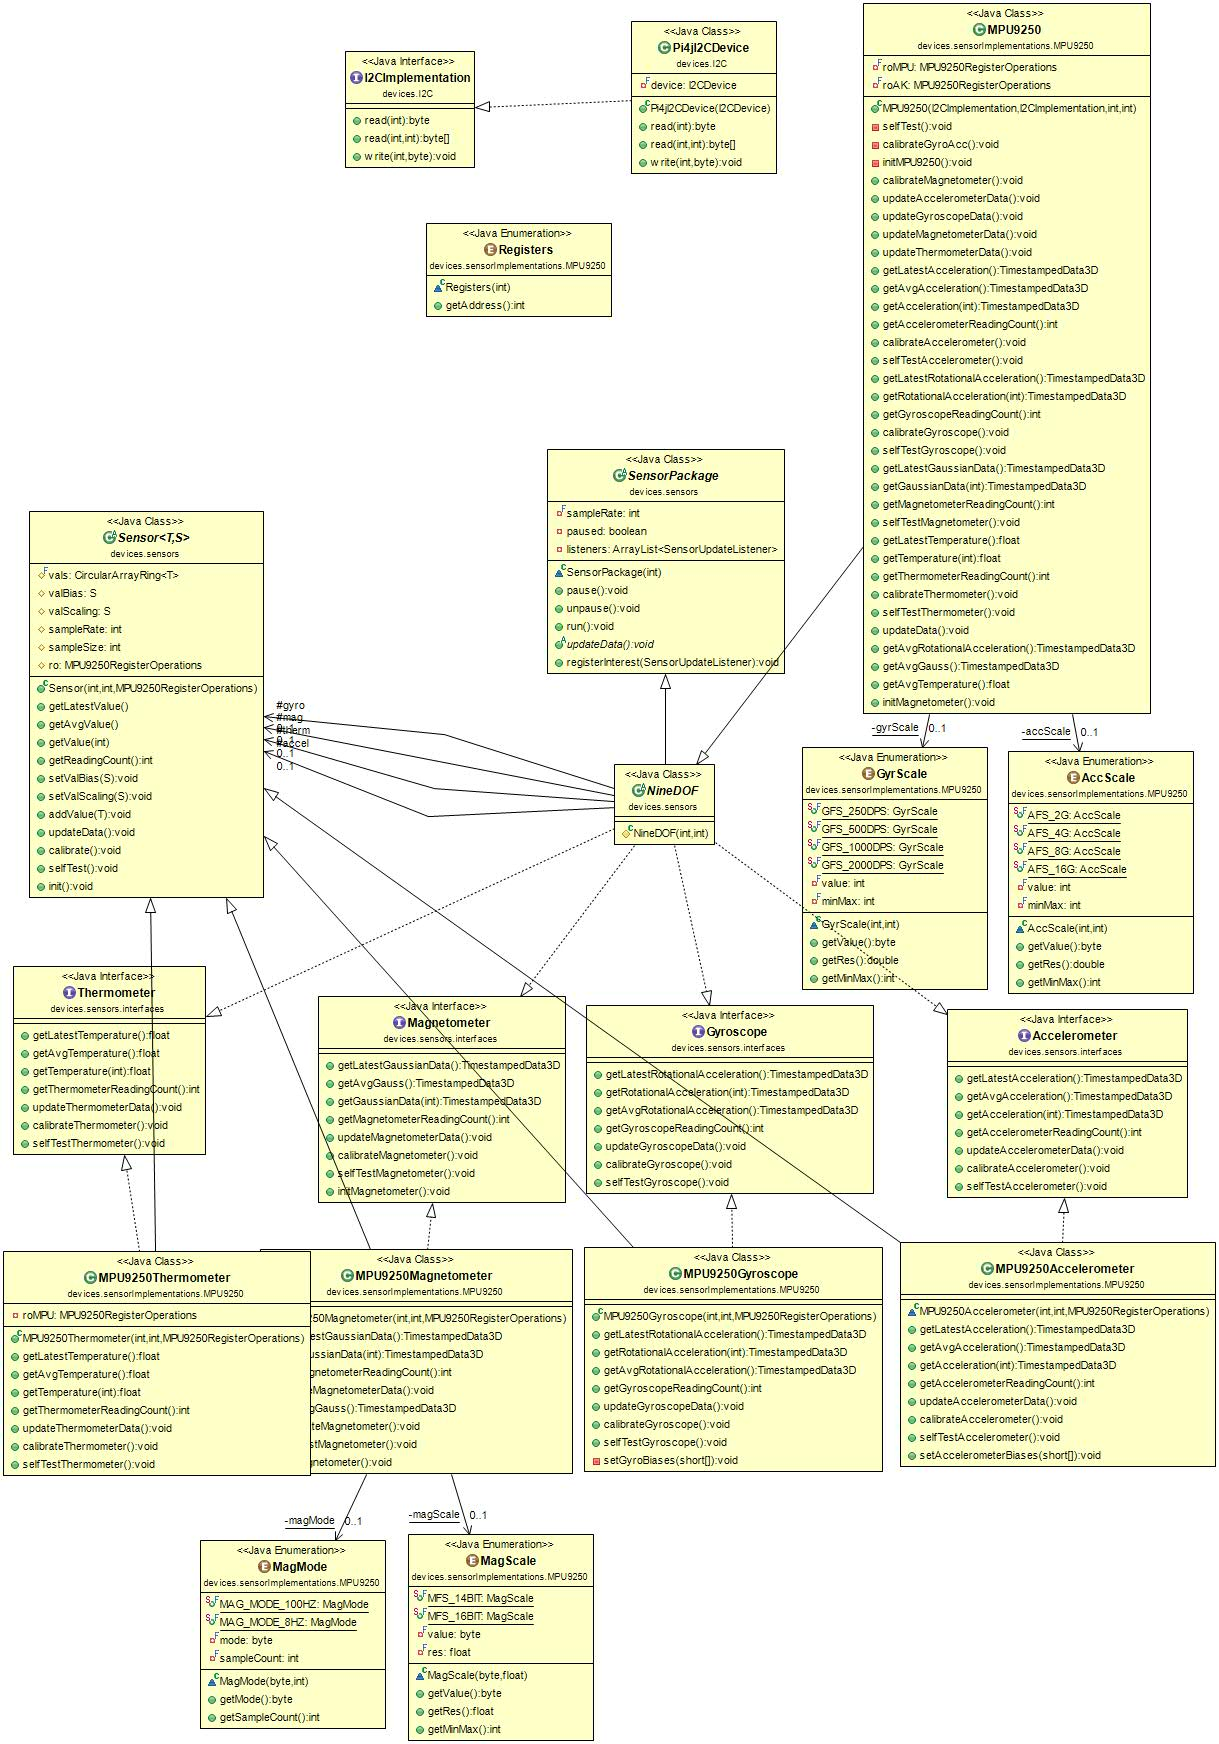
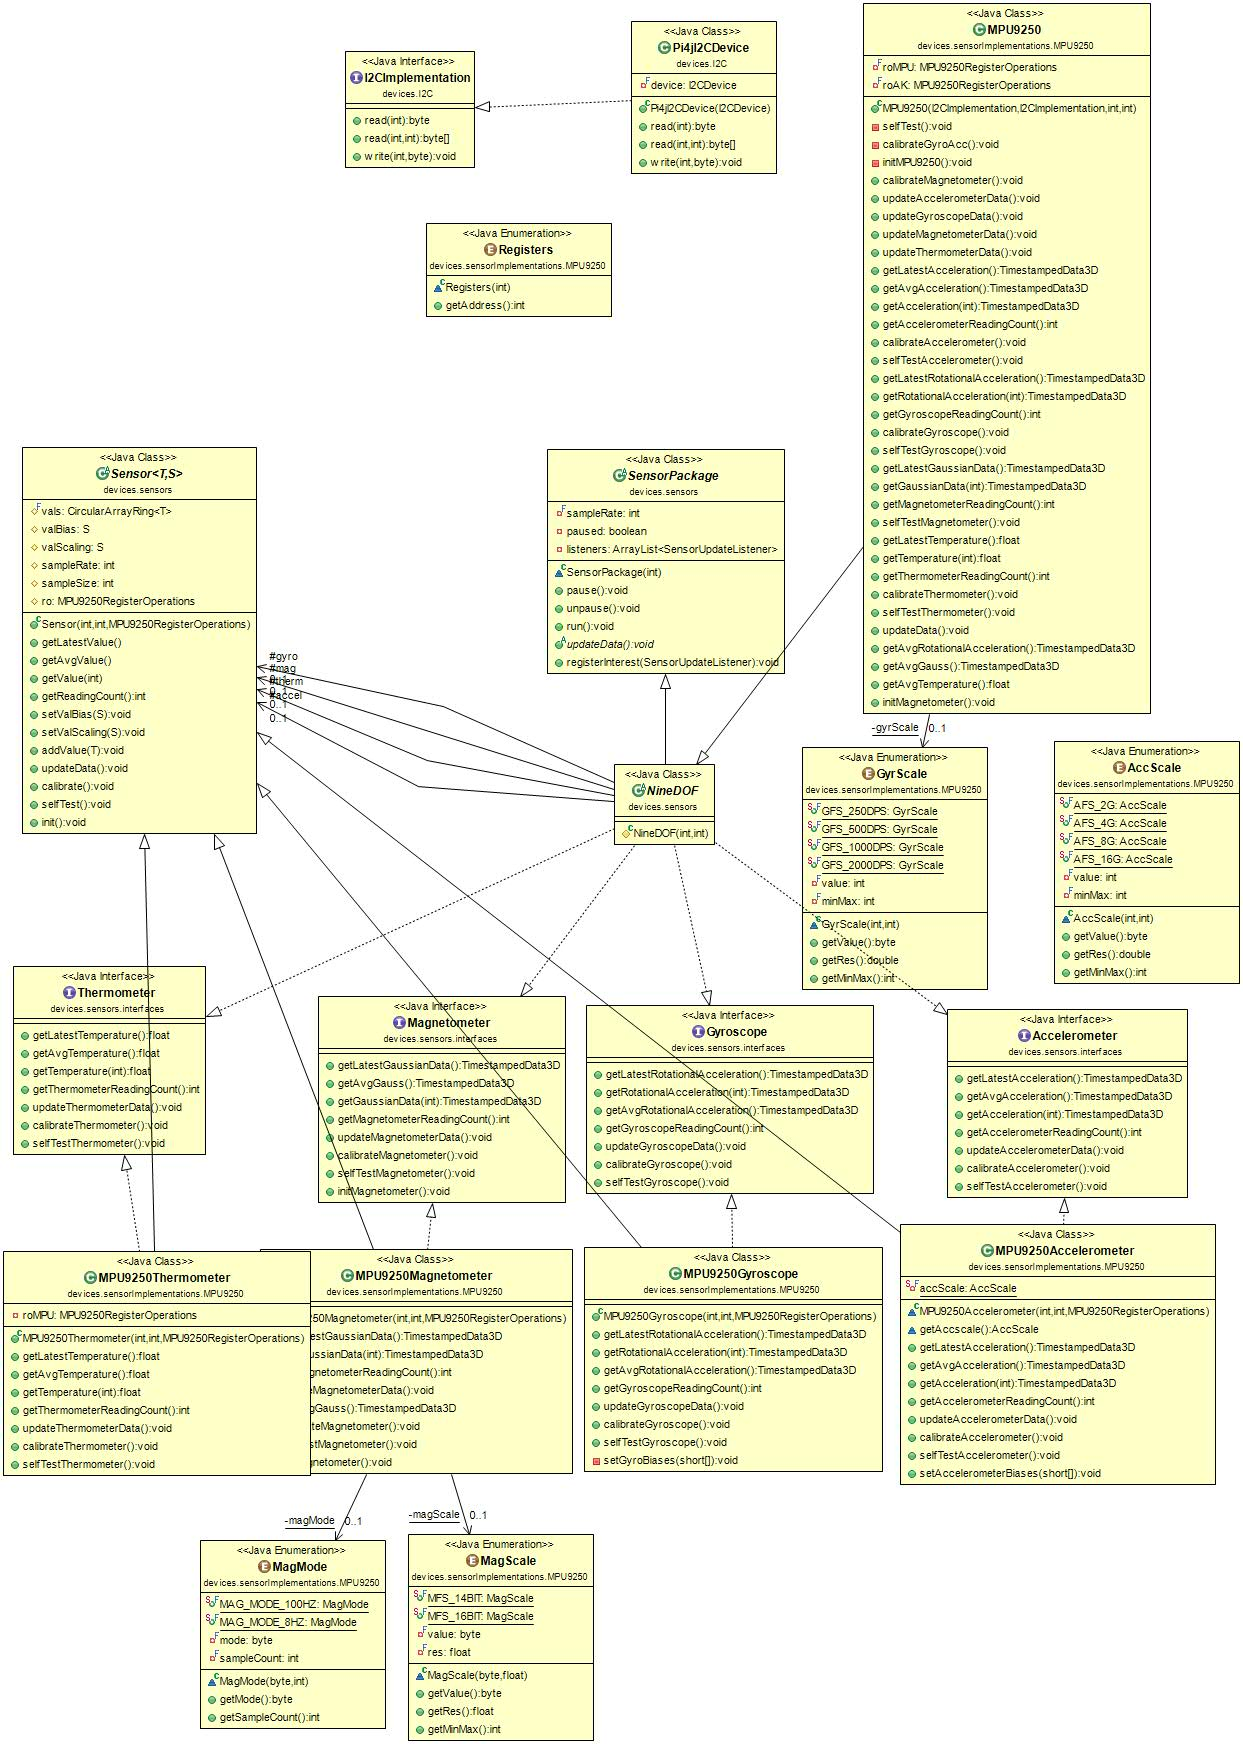
Sensor remodelled slightly to unbundle scaling and offset

diff --git a/RPISensors/src/main/java/devices/sensors/Sensor.java b/RPISensors/src/main/java/devices/sensors/Sensor.java
@@ -1,8 +1,6 @@
 package devices.sensors;
 
 import java.io.IOException;
-import java.util.Set;
-
 import devices.dataTypes.CircularArrayRing;
 import devices.sensorImplementations.MPU9250.MPU9250RegisterOperations;
 
@@ -34,7 +32,8 @@ public abstract class Sensor <T,S>
         return vals.get(0);
     }
     public T getAvgValue()
-    {	//TODO
+    {	
+    	//implement and override in subclass
         return vals.get(0);
     }
 
@@ -60,25 +59,34 @@ public abstract class Sensor <T,S>
 
     public void addValue(T value)
     {
-    	//TODO fix scaling etc
-        //value.scale(valScaling);
-        //value.offset(valBias);
         vals.add(value);
     }
+ 
+    public T OffsetAndScale(T value)
+    {
+    	T oSVal = null;
+    	//implement and override in subclass
+        //value.offset(valBias);
+        //value.scale(valScaling);
+    	System.out.println("ERROR: OffsetAndScale not overridden");
+        return oSVal;
+    }
+
     public void updateData() throws IOException
     {
-    	
-    }
+    	//implement and override in subclass
+    	System.out.println("ERROR: updateData not overridden");
+   }
     public void calibrate()
     {
-    	
+    	//if required implement and override in subclass
     }
     public void selfTest()
     {
-    	
+    	//if required implement and override in subclass
     }
     public void init()
     {
-    	
+    	//if required implement and override in subclass
     }
 }

diff --git a/RPISensors/src/main/java/devices/sensorImplementations/MPU9250/MPU9250.java b/RPISensors/src/main/java/devices/sensorImplementations/MPU9250/MPU9250.java
@@ -19,7 +19,6 @@ import java.util.Arrays;
  */
 public class MPU9250 extends NineDOF
 {
-    private static final AccScale accScale = AccScale.AFS_4G;
     private static final GyrScale gyrScale = GyrScale.GFS_2000DPS;
 
 
@@ -303,7 +302,7 @@ public class MPU9250 extends NineDOF
         c = roMPU.readByteRegister(Registers.ACCEL_CONFIG); // get current ACCEL_CONFIG register value
         c = (byte)(c & ~0xE0); // Clear self-test bits [7:5] ####
         c = (byte)(c & ~0x18);  // Clear AFS bits [4:3]
-        c = (byte)(c | accScale.getValue() ); // Set full scale range for the accelerometer #### does not require shifting!!!!
+        c = (byte)(c | accel.getAccScale.getValue() ); // Set full scale range for the accelerometer #### does not require shifting!!!!
         roMPU.writeByteRegister(Registers.ACCEL_CONFIG, c); // Write new ACCEL_CONFIG register value
 
         // Set accelerometer sample rate configuration

diff --git a/RPISensors/src/main/java/devices/sensorImplementations/MPU9250/MPU9250Accelerometer.java b/RPISensors/src/main/java/devices/sensorImplementations/MPU9250/MPU9250Accelerometer.java
@@ -9,10 +9,16 @@ import devices.dataTypes.TimestampedData3D;
 import devices.sensors.interfaces.Accelerometer;
 
 public class MPU9250Accelerometer extends Sensor<TimestampedData3D,Data3D> implements Accelerometer {
-	
+    private static final AccScale accScale = AccScale.AFS_4G;
+
+
 	MPU9250Accelerometer(int sampleRate, int sampleSize, MPU9250RegisterOperations ro)
 	{
 		super(sampleSize, sampleSize, ro);
+	}
+	
+	AccScale getAccscale() {
+		return accScale;
 	}
 
 	@Override
